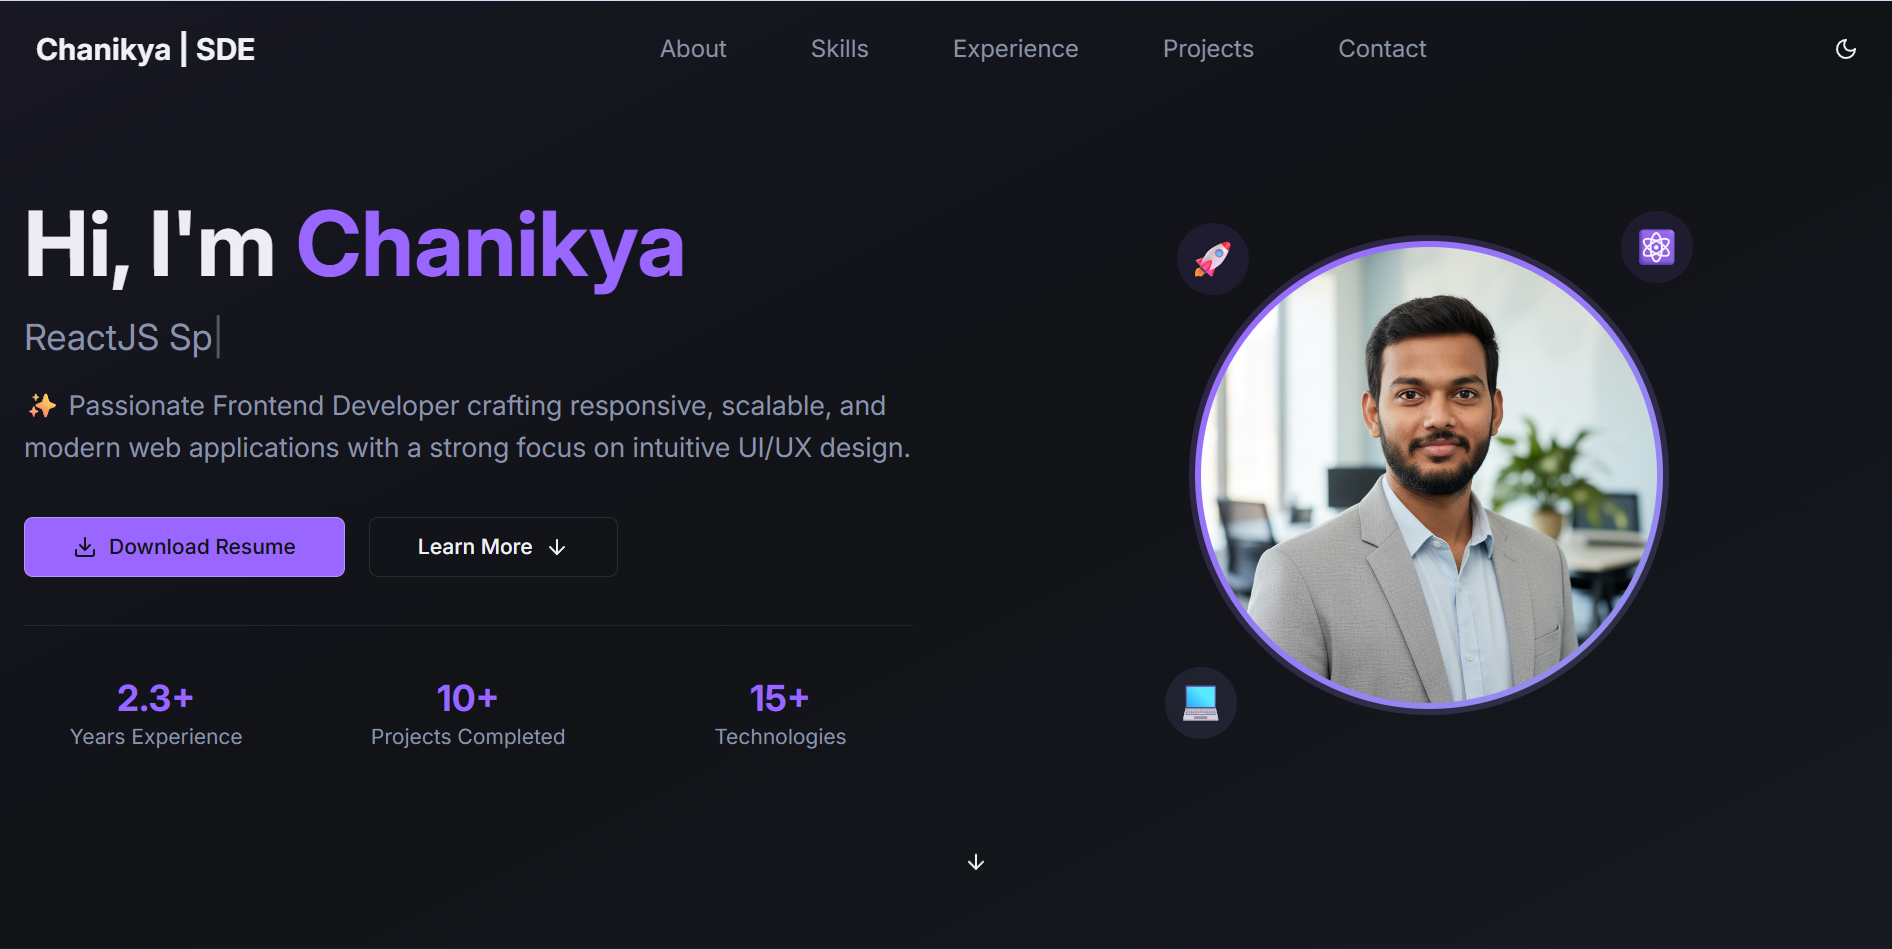
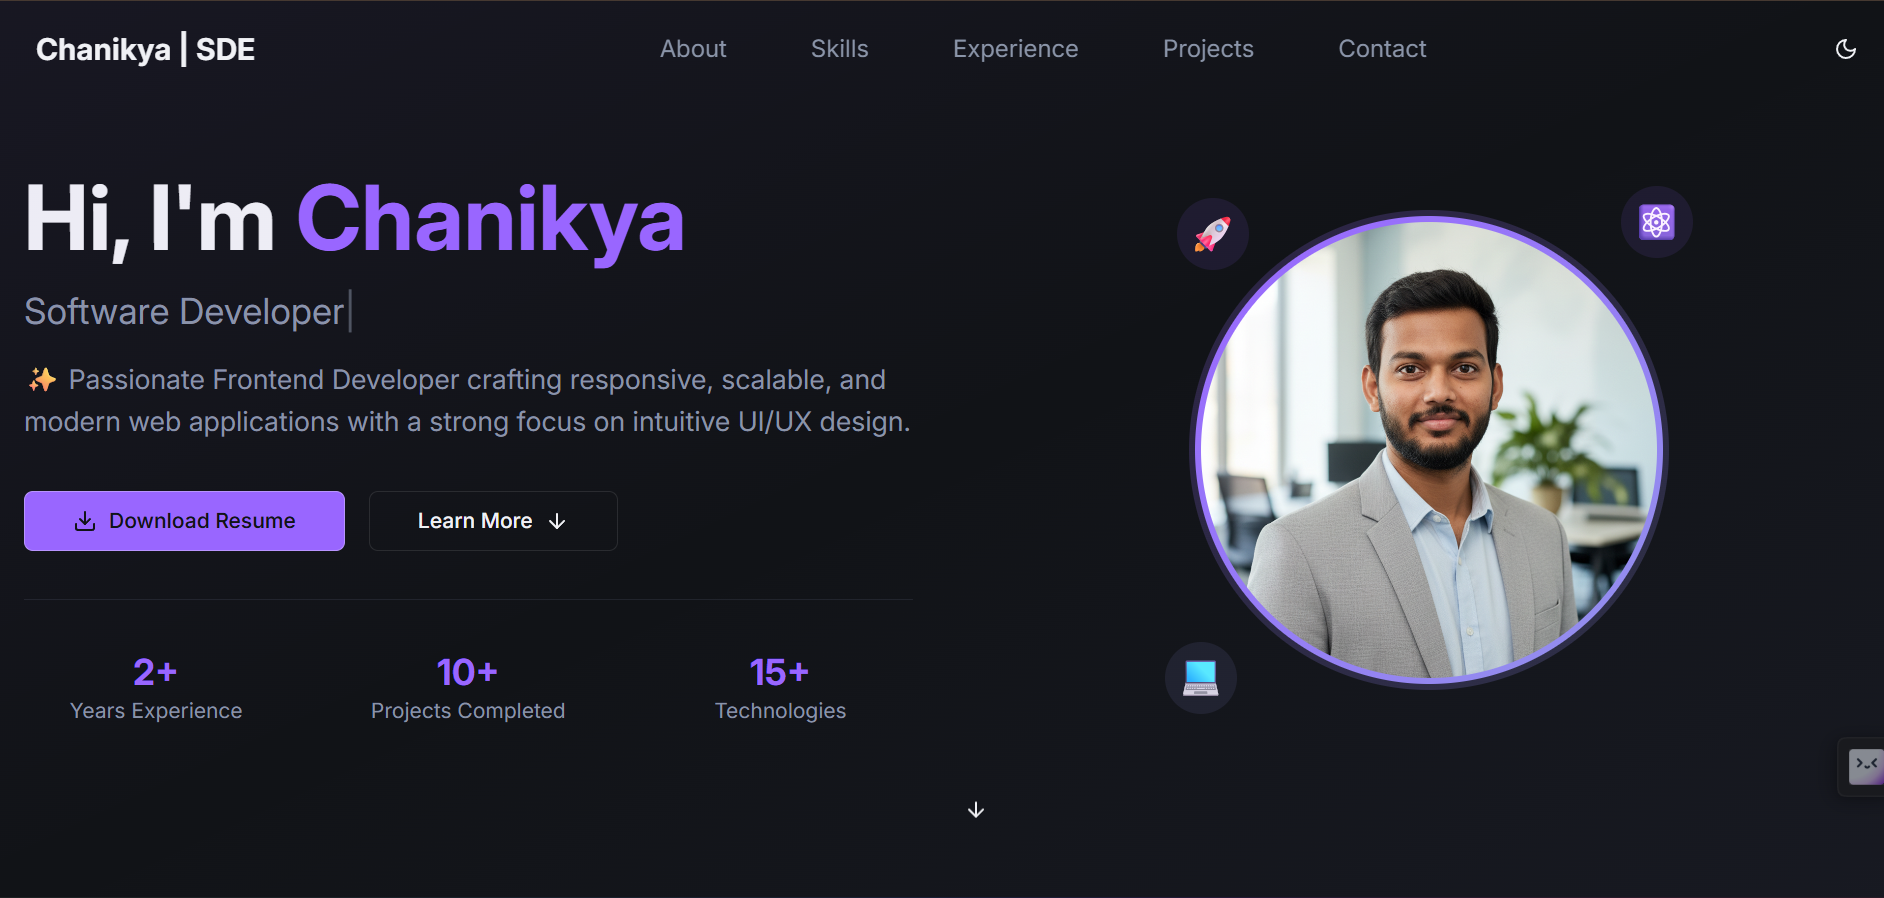
Image Updates

diff --git a/client/index.html b/client/index.html
@@ -13,7 +13,7 @@
   property="og:url"
   content="https://mcsatish.vercel.app"
 />
-  <meta property="og:image"  content="/client/public/Portfolio.png" name="description" />
+  <meta property="og:image" content="https://mcsatish.vercel.app/Portfolio.png"  />
   <meta property="og:title" content="Chanikya Satish Malla - Software Developer" />
   <meta property="og:description"
     content="Passionate Software Developer crafting responsive, scalable, and modern web applications with intuitive UI/UX design." />
